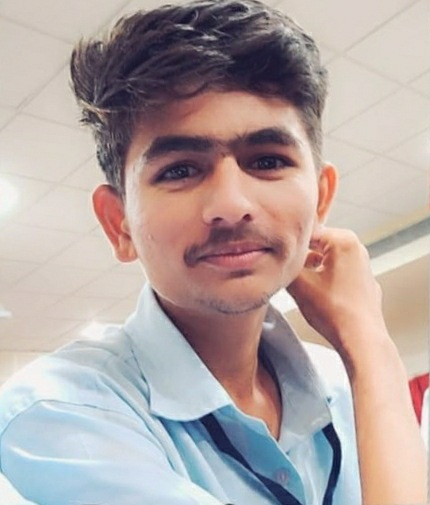
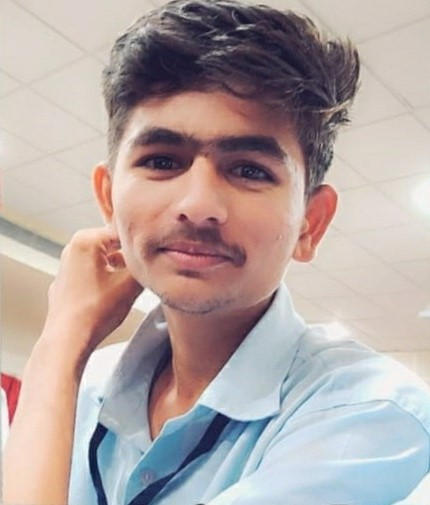
dd

diff --git a/index.html b/index.html
@@ -35,8 +35,17 @@
         .socialicon {
             font-size: 3em;
         }
-        .homeimage{
+        .curvecontent{
             border-radius: 50% 00% 50% 00%;
+            /* border: 2px solid black; */
+            overflow: hidden;
+            height: 78vh;
+          
+        }
+        .homeimage{
+            transform: translate(1%,-8%);
+            
+            height:80vh;
         }
         .homecontainer{
             clip-path: polygon(0 0,100% 0, 100% 100%,70% 85% ,0 100%);
@@ -57,16 +66,41 @@
          .portfolioimg:hover{
         transform: scale(1.5);
         }
+        @media(max-width:1000px) {
+            .homecontainer{
+            clip-path:none;
+        } 
+        .homeimage{
+            /* border-radius:100%; */
+            /* height:80vh; */
+            transform: translate(5%,-9%);
+            height: 100vh;
+        }
+        .curvecontent{
+            overflow: hidden;
+            height: 80vh;
+            border-radius: 50% 00% 50% 00%;
+            /* border-radius:none; */
+        }
+        }
         @media(max-width:800px) {
             .homecontainer{
             clip-path:none;
         } 
         .homeimage{
-            border-radius:100%;
+            /* border-radius:100%; */
+            /* height:80vh; */
+            transform: translate(4%,-9%);
+            height: 95vh;
+        }
+        .curvecontent{
+            overflow: hidden;
+            border-radius: 50%;
+            /* border-radius:none; */
         }
         }
         @media(max-width:600px){
-            .homeimage {
+            .homeimage, .curvecontent {
                display: none;
            } 
         }
@@ -116,7 +150,7 @@
                 <div class="col-lg-6 col-md-10 col-sm-12 col-12 mx-auto mt-5">
                     <div class="my-5" id="resume">
                         <p class="text-dark">WELCOME TO MY WORLD</p>
-                        <h1 class="display-1 fw-bolder ">Hi I’m <span class="text-danger display-4"> Mahesh Patil </span> <br>
+                        <h1 class="display-4 "> Hi I’m <span class="text-danger display-1 fw-bolder"> <br> Mahesh Patil </span> <br>
                             <spn class="display-3 fw-bolder">a Web Developer </spn>
                         </h1>
                         <p class="cd-text">I am a passionate front-end Developer. I am started my career in this field as a
@@ -128,7 +162,9 @@
                     </div>
                 </div>
                 <div class="col-lg-5 col-md-10 col-sm-12 col-12 mx-auto mt-5" id="home">
-                    <img src="./mahesh.jpg" alt="home image" class="img-fluid border-danger border my-5  homeimage">
+                   <div class="curvecontent">
+                    <img src="./about2.jpg" alt="home image" class="img-fluid    my-5  homeimage">
+                   </div>
                 </div>
             </div>
         </div>
